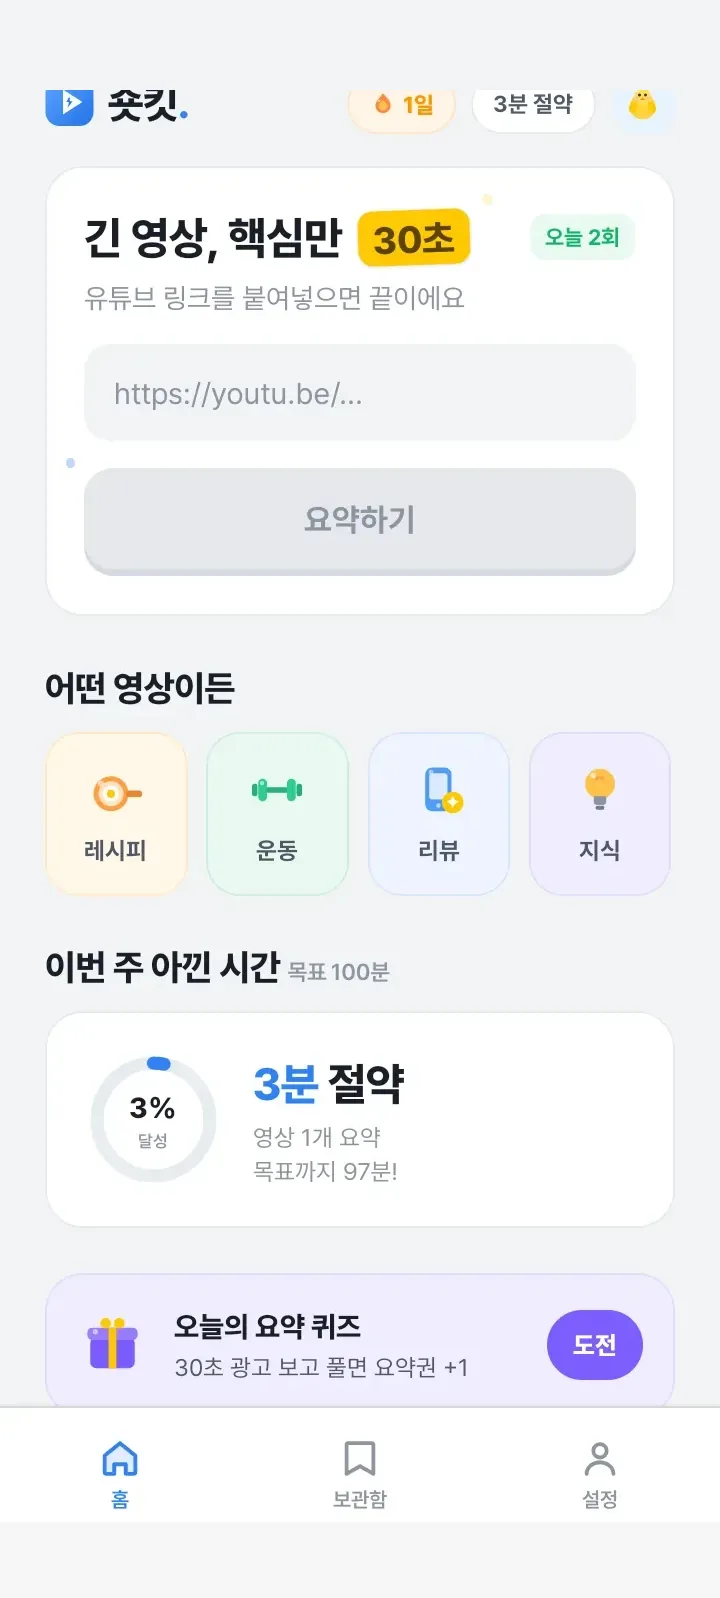
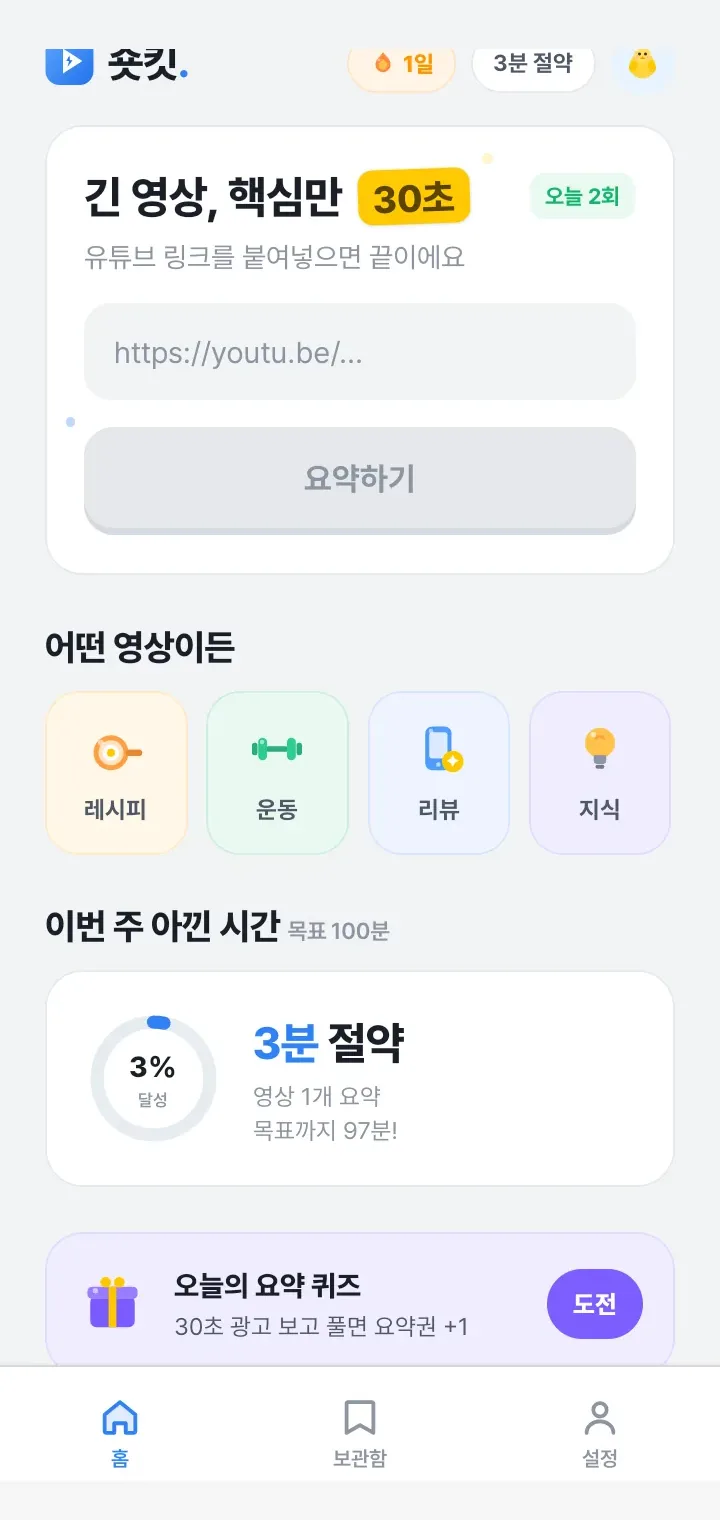
fix(shortkit): 폰 스크린샷 비율을 프레임에 정합 — 상하 잘림 제거
- 문제: object-fit:cover가 이미지(2.219)와 프레임(2.111) 비율 차만큼 상하를 잘라
  상태바·탭바가 프레임 경계에서 잘림. 여백 추가할수록 더 잘리는 악순환.
- 해결: 이미지를 프레임 비율에 정확히 맞춤(720×1520=2.1111, 상단 49·하단 33px 여백).
  cover로도 잘림 0, 레터박스 0, 여백은 화면 내 앱 배경색으로 자연스럽게.

diff --git a/src/sections/PromoSection.module.css b/src/sections/PromoSection.module.css
@@ -445,7 +445,9 @@
   display: none;
 }
 /* 숏킷 스크린샷 상하 여백은 베젤(패딩)이 아니라 이미지 자체에 앱 배경색 여백을 추가해
-   해결한다(shot-home.webp에 상단 #f2f4f5·하단 #f7f7f7 띠 포함). 베젤은 기본 10px 유지. */
+   해결한다(shot-home.webp: 상단 #f2f4f5 49px·하단 #f7f7f7 33px 띠 포함).
+   ⚠ 이미지 비율을 프레임(720×1520=2.111)에 정확히 맞춰 object-fit:cover로도 잘림 0.
+   베젤은 기본 10px 유지(테두리 두꺼워지지 않음). */
 
 /* 글래스 칩(홍보웹 backdrop-blur 재현): 블루 무대 위 반투명 흰 칩 + 블러.
    흰 배경이 아니라 유리질이라 텍스트는 흰색 유지(대비 확보). */
